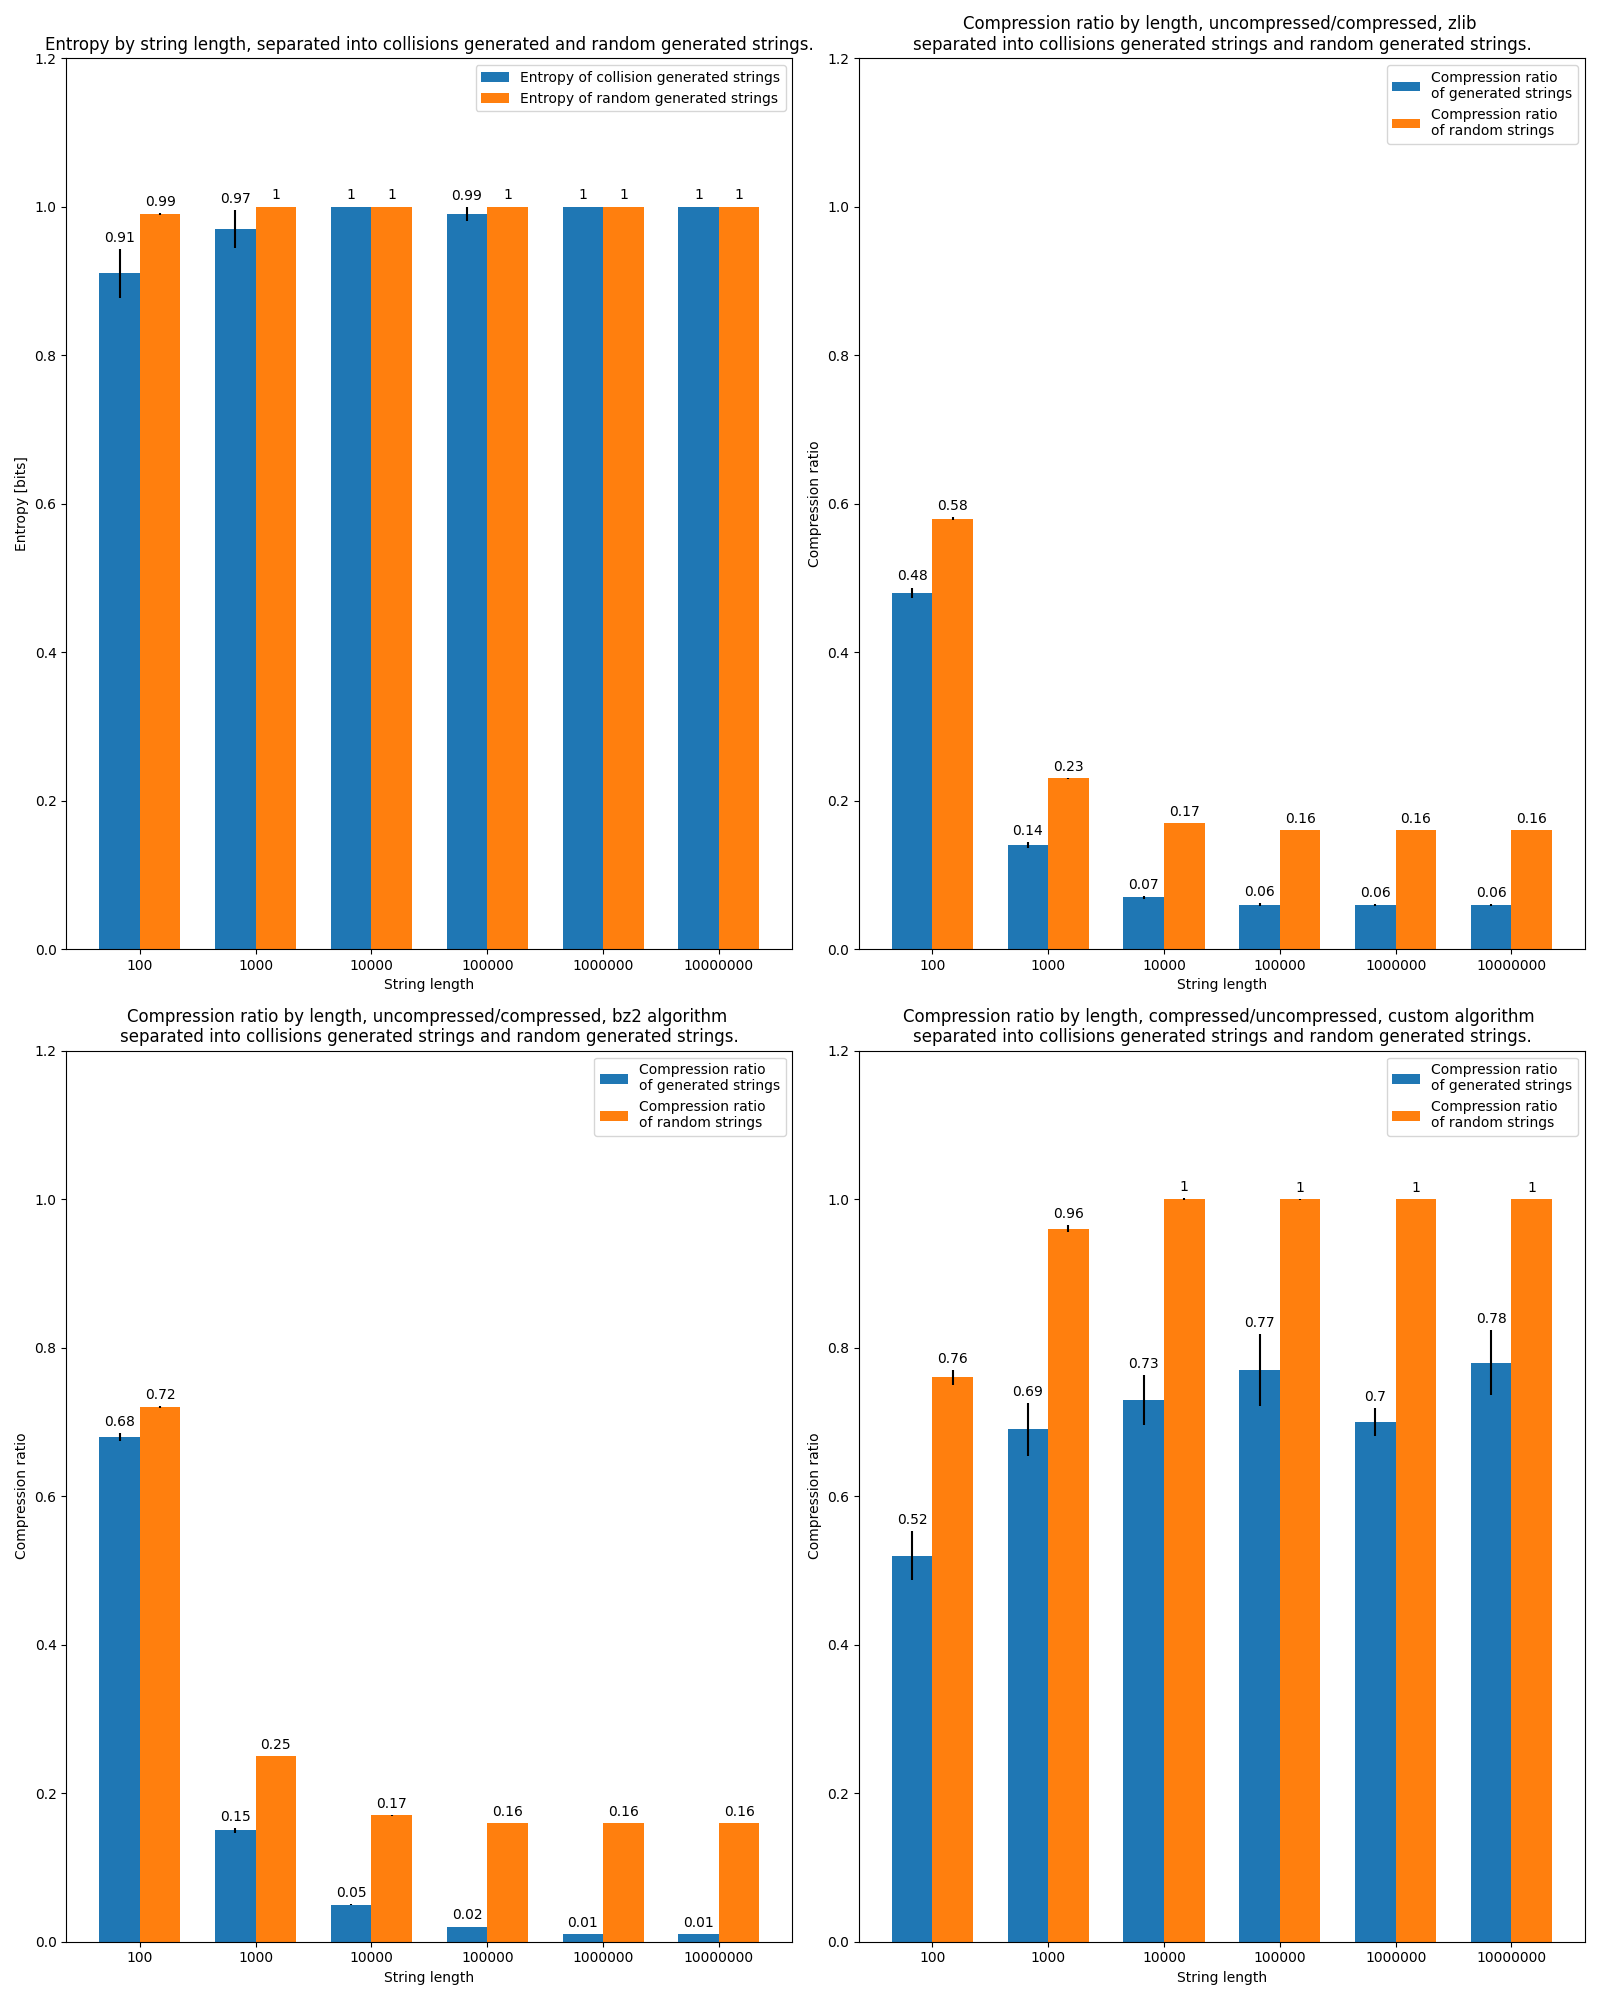
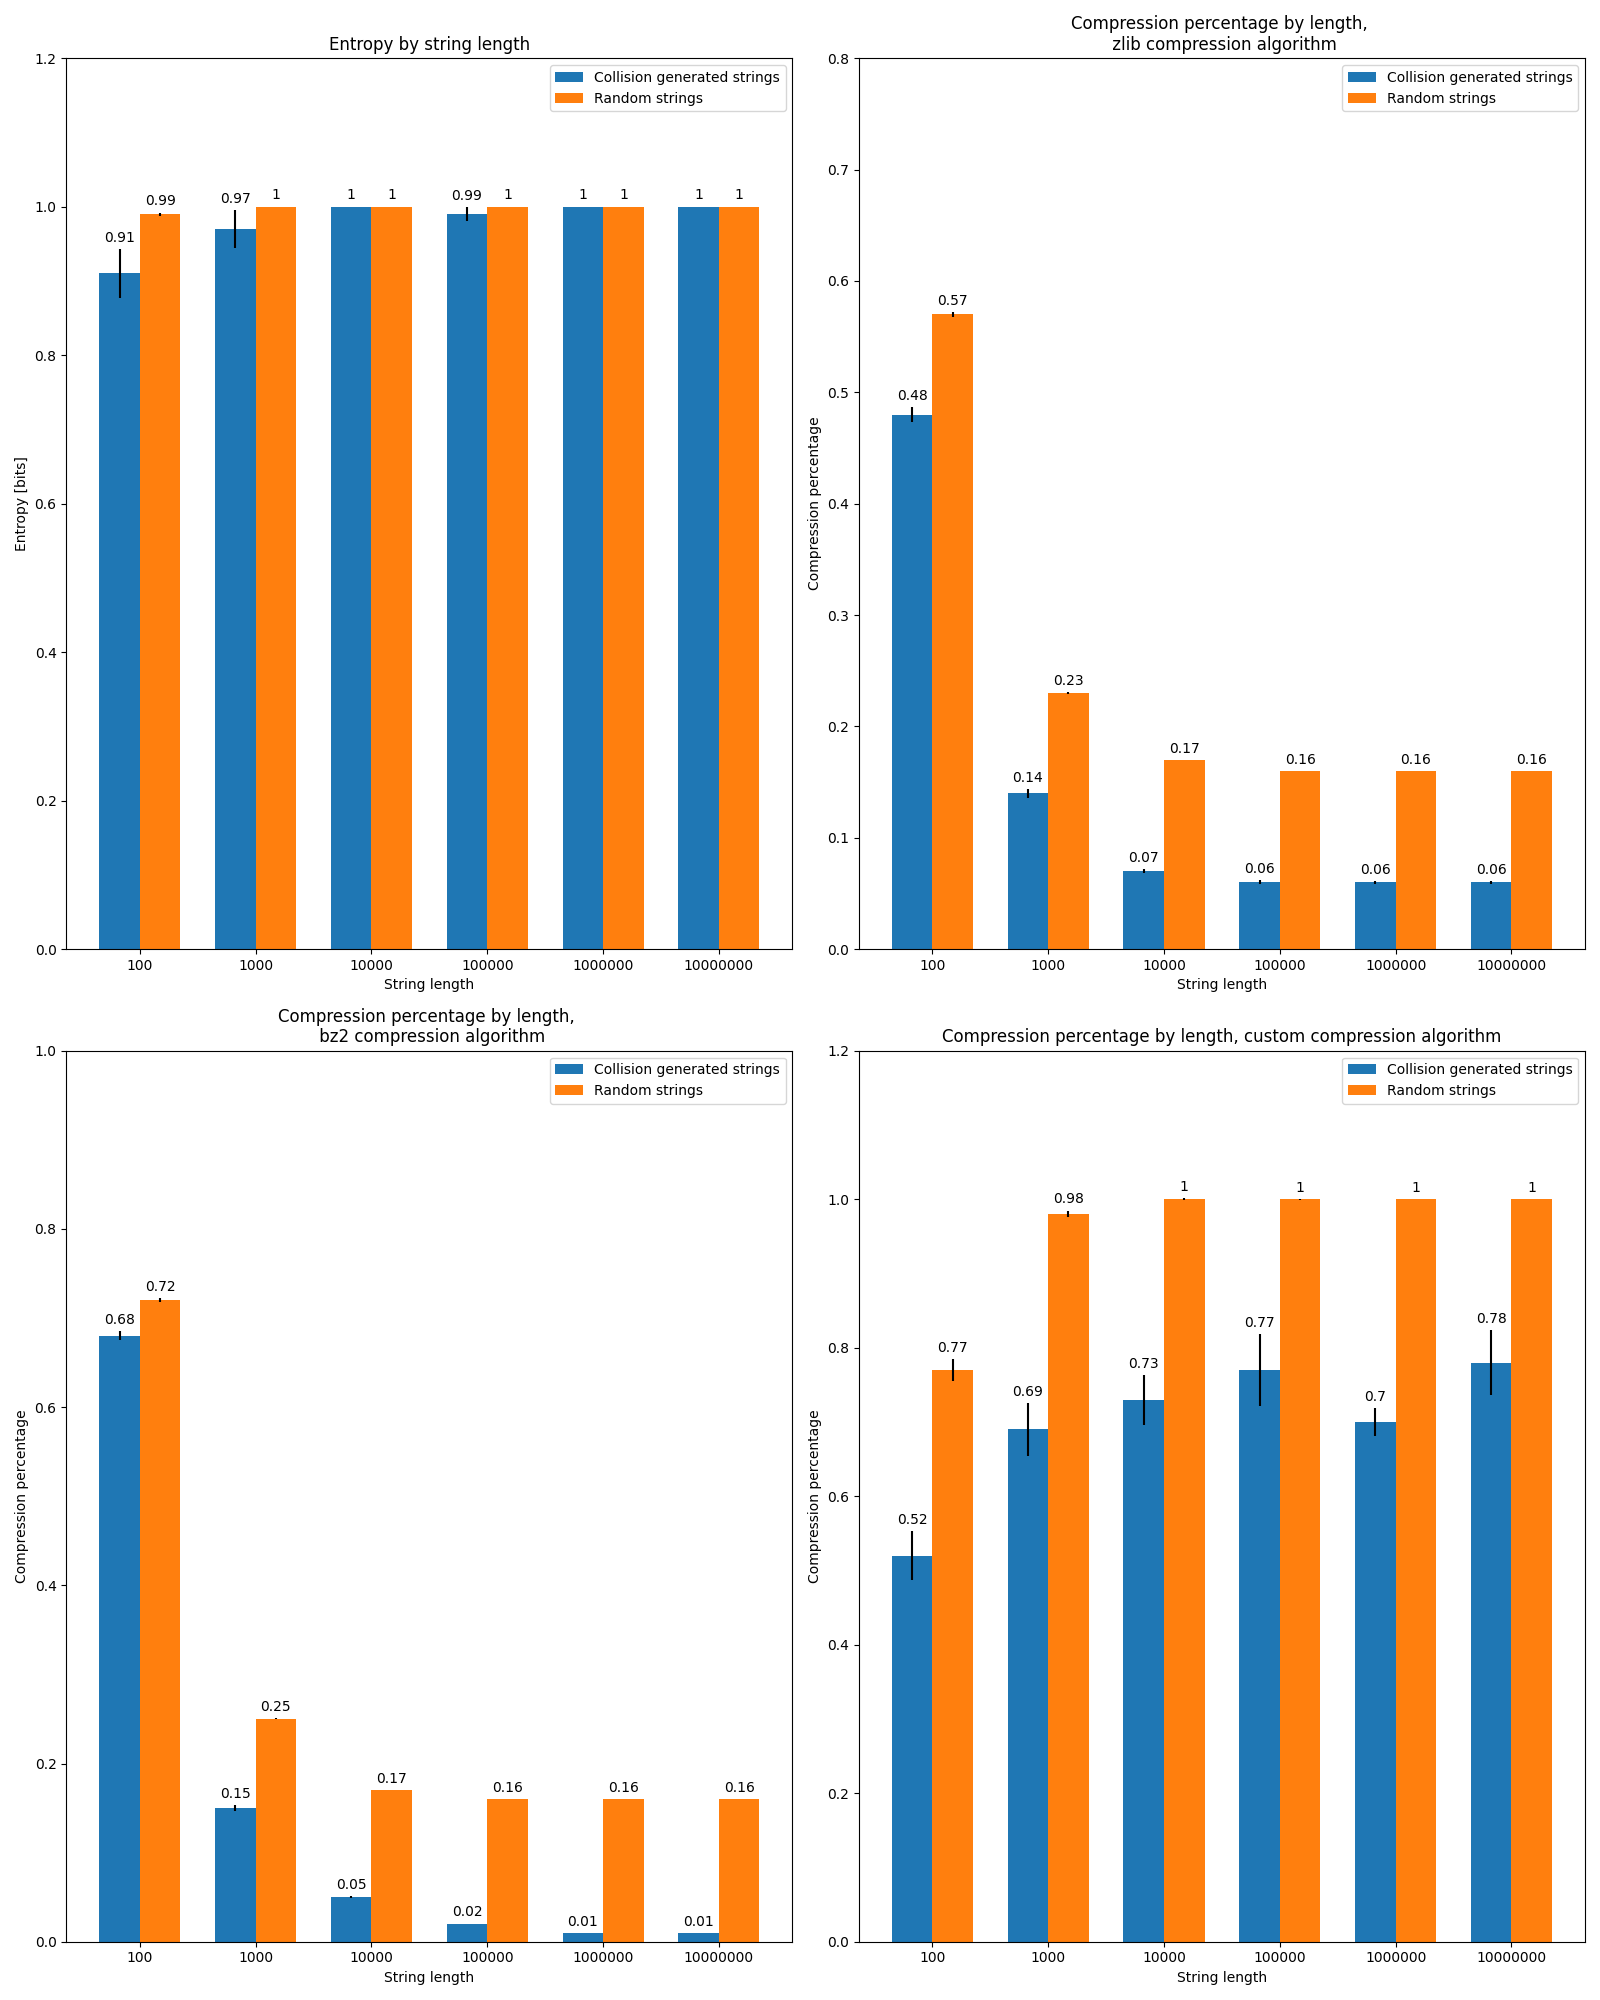
Latest updates.

diff --git a/compression_comparison/unified_plot.py b/compression_comparison/unified_plot.py
@@ -78,10 +78,10 @@ rand_ent = [round(np.mean([e for e in group]), 2) for group in entropy_random]
 rand_ent_errs = [jacknife_error(group) for group in entropy_random]
 
 ax = axes[0][0]
-rects1 = ax.bar(x - width/2, gen_ent, width, yerr=gen_ent_errs, label='Entropy of collision generated strings')
-rects2 = ax.bar(x + width/2, rand_ent, width, yerr=rand_ent_errs, label='Entropy of random generated strings')
+rects1 = ax.bar(x - width/2, gen_ent, width, yerr=gen_ent_errs, label='Collision generated strings')
+rects2 = ax.bar(x + width/2, rand_ent, width, yerr=rand_ent_errs, label='Random strings')
 ax.set_ylabel('Entropy [bits]')
-ax.set_title('Entropy by string length, separated into collisions generated and random generated strings.')
+ax.set_title('Entropy by string length')
 ax.set_xlabel('String length')
 ax.set_xticks(x, labels)
 ax.set_ylim(0, 1.2)
@@ -94,13 +94,13 @@ zlib_gen_perc = [round(i, 2) for i in zlib_gen_perc]
 zlib_rand_perc, zlib_rand_errs = percentage_and_error(rand_sizes, zlib_random)
 zlib_rand_perc = [round(i, 2) for i in zlib_rand_perc]
 ax = axes[0][1]
-rects1 = ax.bar(x - width/2, zlib_gen_perc, width, yerr=zlib_gen_errs, label='Compression ratio \nof generated strings')
-rects2 = ax.bar(x + width/2, zlib_rand_perc, width, yerr=zlib_rand_errs, label='Compression ratio \nof random strings')
-ax.set_ylabel('Compression ratio')
-ax.set_title('Compression ratio by length, uncompressed/compressed, zlib \nseparated into collisions generated strings and random generated strings.')
+rects1 = ax.bar(x - width/2, zlib_gen_perc, width, yerr=zlib_gen_errs, label='Collision generated strings')
+rects2 = ax.bar(x + width/2, zlib_rand_perc, width, yerr=zlib_rand_errs, label='Random strings')
+ax.set_ylabel('Compression percentage')
+ax.set_title('Compression percentage by length, \n zlib compression algorithm')
 ax.set_xlabel('String length')
 ax.set_xticks(x, labels)
-ax.set_ylim(0, 1.2)
+ax.set_ylim(0, 0.8)
 ax.legend()
 ax.bar_label(rects1, padding=3)
 ax.bar_label(rects2, padding=3)
@@ -110,13 +110,13 @@ bz2_gen_perc = [round(i, 2) for i in bz2_gen_perc]
 bz2_rand_perc, bz2_rand_errs = percentage_and_error(rand_sizes, bz2_random)
 bz2_rand_perc = [round(i, 2) for i in bz2_rand_perc]
 ax = axes[1][0]
-rects1 = ax.bar(x - width/2, bz2_gen_perc, width, yerr=bz2_gen_errs, label='Compression ratio \nof generated strings')
-rects2 = ax.bar(x + width/2, bz2_rand_perc, width, yerr=bz2_rand_errs, label='Compression ratio \nof random strings')
-ax.set_ylabel('Compression ratio')
-ax.set_title('Compression ratio by length, uncompressed/compressed, bz2 algorithm \nseparated into collisions generated strings and random generated strings.')
+rects1 = ax.bar(x - width/2, bz2_gen_perc, width, yerr=bz2_gen_errs, label='Collision generated strings')
+rects2 = ax.bar(x + width/2, bz2_rand_perc, width, yerr=bz2_rand_errs, label='Random strings')
+ax.set_ylabel('Compression percentage')
+ax.set_title('Compression percentage by length, \n bz2 compression algorithm')
 ax.set_xlabel('String length')
 ax.set_xticks(x, labels)
-ax.set_ylim(0, 1.2)
+ax.set_ylim(0, 1)
 ax.legend()
 ax.bar_label(rects1, padding=3)
 ax.bar_label(rects2, padding=3)
@@ -126,10 +126,10 @@ encoder_gen_perc, encoder_gen_errs = percentage_and_error(generated_sizes, encod
 encoder_gen_perc = [round(i, 2) for i in encoder_gen_perc]
 encoder_rand_perc, encoder_rand_errs = percentage_and_error(rand_sizes, encoder_random)
 encoder_rand_perc = [round(i, 2) for i in encoder_rand_perc]
-rects1 = ax.bar(x - width/2, encoder_gen_perc, width, yerr=encoder_gen_errs, label='Compression ratio \nof generated strings')
-rects2 = ax.bar(x + width/2, encoder_rand_perc, width, yerr=encoder_rand_errs, label='Compression ratio \nof random strings')
-ax.set_ylabel('Compression ratio')
-ax.set_title('Compression ratio by length, compressed/uncompressed, custom algorithm \nseparated into collisions generated strings and random generated strings.')
+rects1 = ax.bar(x - width/2, encoder_gen_perc, width, yerr=encoder_gen_errs, label='Collision generated strings')
+rects2 = ax.bar(x + width/2, encoder_rand_perc, width, yerr=encoder_rand_errs, label='Random strings')
+ax.set_ylabel('Compression percentage')
+ax.set_title('Compression percentage by length, custom compression algorithm')
 ax.set_xlabel('String length')
 ax.set_xticks(x, labels)
 ax.set_ylim(0, 1.2)

diff --git a/2d_plot_scripts/custom_vs_massratio_2d.py b/2d_plot_scripts/custom_vs_massratio_2d.py
@@ -1,10 +1,10 @@
 import matplotlib.pyplot as plt
 import numpy as np
 from auxiliary import *
-import zlib
-import sys
 
-zlibs = []
+encoder = RunLengthEncoder()
+
+customs = []
 
 for i in range(20):
     row = []
@@ -12,29 +12,29 @@ for i in range(20):
         column = []
         for k in range(10):
             string = convert_to_string('Experiments/runs_mass_tests2d/index' + str(i) + '_' + str(j) + '_' + str(k))
-            size = sys.getsizeof(string.encode())
-            comp_size = sys.getsizeof(zlib.compress(string.encode()))
+            size = len(string)
+            comp_size = len(encoder.encode_b(string))
             column.append(comp_size/size)
         row.append(column)
-    zlibs.append(row)
+    customs.append(row)
 
-plot = [[np.mean(zlibs[i][j]) for i in range(20)] for j in range(20)]
-errs = [[jacknife_error(zlibs[i][j]) for i in range(20)] for j in range(20)]
+plot = [[np.mean(customs[i][j]) for i in range(20)] for j in range(20)]
+errs = [[jacknife_error(customs[i][j]) for i in range(20)] for j in range(20)]
 
 fig, axes = plt.subplots(1, 2, figsize=(16, 8))
 
 plot0 = axes[0].contourf(plot, extent=[0, 1, 0, 1], origin='lower')
 plt.colorbar(plot0, ax=axes[0])
-axes[0].set_title('Compression ratio for zlib vs mass ratios.')
+axes[0].set_title('Compression percentage custom algorithm vs mass ratios.')
 axes[0].set_xlabel('$m_1/m_3$ ratio')
 axes[0].set_ylabel('$m_2/m_3$ ratio')
 
 plot1 = axes[1].contourf(errs, extent=[0,1,0,1], origin='lower')
 plt.colorbar(plot1, ax=axes[1])
-axes[1].set_title('Variance in the compression ratio')
+axes[1].set_title('Variance in the compression percentage')
 axes[1].set_xlabel('$m_1/m_3$ ratio')
 axes[1].set_ylabel('$m_2/m_3$ ratio')
 
 plt.tight_layout()
-plt.savefig('Plots/2d_plots/zlib_2d')
+plt.savefig('Plots/2d_plots/custom_2d')
 plt.close()

diff --git a/2d_plot_scripts/bz2_vs_massratio_2d.py b/2d_plot_scripts/bz2_vs_massratio_2d.py
@@ -1,10 +1,10 @@
 import matplotlib.pyplot as plt
 import numpy as np
 from auxiliary import *
-import zlib
+import bz2
 import sys
 
-zlibs = []
+bz2s = []
 
 for i in range(20):
     row = []
@@ -13,28 +13,28 @@ for i in range(20):
         for k in range(10):
             string = convert_to_string('Experiments/runs_mass_tests2d/index' + str(i) + '_' + str(j) + '_' + str(k))
             size = sys.getsizeof(string.encode())
-            comp_size = sys.getsizeof(zlib.compress(string.encode()))
+            comp_size = sys.getsizeof(bz2.compress(string.encode()))
             column.append(comp_size/size)
         row.append(column)
-    zlibs.append(row)
+    bz2s.append(row)
 
-plot = [[np.mean(zlibs[i][j]) for i in range(20)] for j in range(20)]
-errs = [[jacknife_error(zlibs[i][j]) for i in range(20)] for j in range(20)]
+plot = [[np.mean(bz2s[i][j]) for i in range(20)] for j in range(20)]
+errs = [[jacknife_error(bz2s[i][j]) for i in range(20)] for j in range(20)]
 
 fig, axes = plt.subplots(1, 2, figsize=(16, 8))
 
 plot0 = axes[0].contourf(plot, extent=[0, 1, 0, 1], origin='lower')
 plt.colorbar(plot0, ax=axes[0])
-axes[0].set_title('Compression ratio for zlib vs mass ratios.')
+axes[0].set_title('Compression percentage bz2 algorithm vs mass ratios.')
 axes[0].set_xlabel('$m_1/m_3$ ratio')
 axes[0].set_ylabel('$m_2/m_3$ ratio')
 
 plot1 = axes[1].contourf(errs, extent=[0,1,0,1], origin='lower')
 plt.colorbar(plot1, ax=axes[1])
-axes[1].set_title('Variance in the compression ratio')
+axes[1].set_title('Variance in the compression percentage')
 axes[1].set_xlabel('$m_1/m_3$ ratio')
 axes[1].set_ylabel('$m_2/m_3$ ratio')
 
 plt.tight_layout()
-plt.savefig('Plots/2d_plots/zlib_2d')
+plt.savefig('Plots/2d_plots/bz2_2d')
 plt.close()

diff --git a/2d_plot_scripts/entropy_vs_massratio_2d.py b/2d_plot_scripts/entropy_vs_massratio_2d.py
@@ -1,10 +1,8 @@
 import matplotlib.pyplot as plt
 import numpy as np
 from auxiliary import *
-import zlib
-import sys
 
-zlibs = []
+entropies = []
 
 for i in range(20):
     row = []
@@ -12,29 +10,27 @@ for i in range(20):
         column = []
         for k in range(10):
             string = convert_to_string('Experiments/runs_mass_tests2d/index' + str(i) + '_' + str(j) + '_' + str(k))
-            size = sys.getsizeof(string.encode())
-            comp_size = sys.getsizeof(zlib.compress(string.encode()))
-            column.append(comp_size/size)
+            column.append(entropy2(string, base=2))
         row.append(column)
-    zlibs.append(row)
+    entropies.append(row)
 
-plot = [[np.mean(zlibs[i][j]) for i in range(20)] for j in range(20)]
-errs = [[jacknife_error(zlibs[i][j]) for i in range(20)] for j in range(20)]
+plot = [[np.mean(entropies[i][j]) for i in range(20)] for j in range(20)]
+errs = [[jacknife_error(entropies[i][j]) for i in range(20)] for j in range(20)]
 
 fig, axes = plt.subplots(1, 2, figsize=(16, 8))
 
 plot0 = axes[0].contourf(plot, extent=[0, 1, 0, 1], origin='lower')
 plt.colorbar(plot0, ax=axes[0])
-axes[0].set_title('Compression ratio for zlib vs mass ratios.')
+axes[0].set_title('Generated string entropy vs mass ratios.')
 axes[0].set_xlabel('$m_1/m_3$ ratio')
 axes[0].set_ylabel('$m_2/m_3$ ratio')
 
 plot1 = axes[1].contourf(errs, extent=[0,1,0,1], origin='lower')
 plt.colorbar(plot1, ax=axes[1])
-axes[1].set_title('Variance in the compression ratio')
+axes[1].set_title('Variance in the entropy')
 axes[1].set_xlabel('$m_1/m_3$ ratio')
 axes[1].set_ylabel('$m_2/m_3$ ratio')
 
 plt.tight_layout()
-plt.savefig('Plots/2d_plots/zlib_2d')
+plt.savefig('Plots/2d_plots/entropy_2d')
 plt.close()

diff --git a/2d_plot_scripts/runs_vs_massratio_2d.py b/2d_plot_scripts/runs_vs_massratio_2d.py
@@ -1,11 +1,8 @@
 import enum
 import matplotlib.pyplot as plt
 import numpy as np
-import os
-
-print(os.getcwd())
-from compression_comparison.auxiliary import *
-from simulation import *
+#from simulation import *
+from auxiliary import *
 
 ratios13 = np.linspace(0.01, 1, 20)
 ratios23 = np.linspace(0.01, 1, 20)
@@ -38,19 +35,20 @@ for i in range(20):
 plotZs = [[np.mean(Zs[i][j]) for i in range(20)] for j in range(20)]
 errs = [[jacknife_error(Zs[i][j]) for i in range(20)] for j in range(20)]
 
-fig, axes = plt.subplots(1, 2, figsize=(16, 12))
+fig, axes = plt.subplots(1, 2, figsize=(16, 8))
 
 plot0 = axes[0].contourf(plotZs, extent=[0, 1, 0, 1], origin='lower')
-plt.colorbar(plot0, axes[0])
+plt.colorbar(plot0, ax=axes[0])
 axes[0].set_title('Runs test Z score vs mass ratios.')
 axes[0].set_xlabel('$m_1/m_3$ ratio')
 axes[0].set_ylabel('$m_2/m_3$ ratio')
 
 plot1 = axes[1].contourf(errs, extent=[0,1,0,1], origin='lower')
-plt.colorbar(plot1, axes[1])
+plt.colorbar(plot1, ax=axes[1])
 axes[1].set_title('Variance in the Z score of the Runs test')
 axes[1].set_xlabel('$m_1/m_3$ ratio')
 axes[1].set_ylabel('$m_2/m_3$ ratio')
 
+plt.tight_layout()
 plt.savefig('Plots/2d_plots/runs_2d')
 plt.close()

diff --git a/2d_plot_scripts/auxiliary.py b/2d_plot_scripts/auxiliary.py
@@ -212,7 +212,7 @@ def entropy2(labels, base=None):
     ent = 0.
 
     # Compute entropy
-    base = math.e if base is None else base
+    base = e if base is None else base
     for i in probs:
         ent -= i * math.log(i, base)
 
